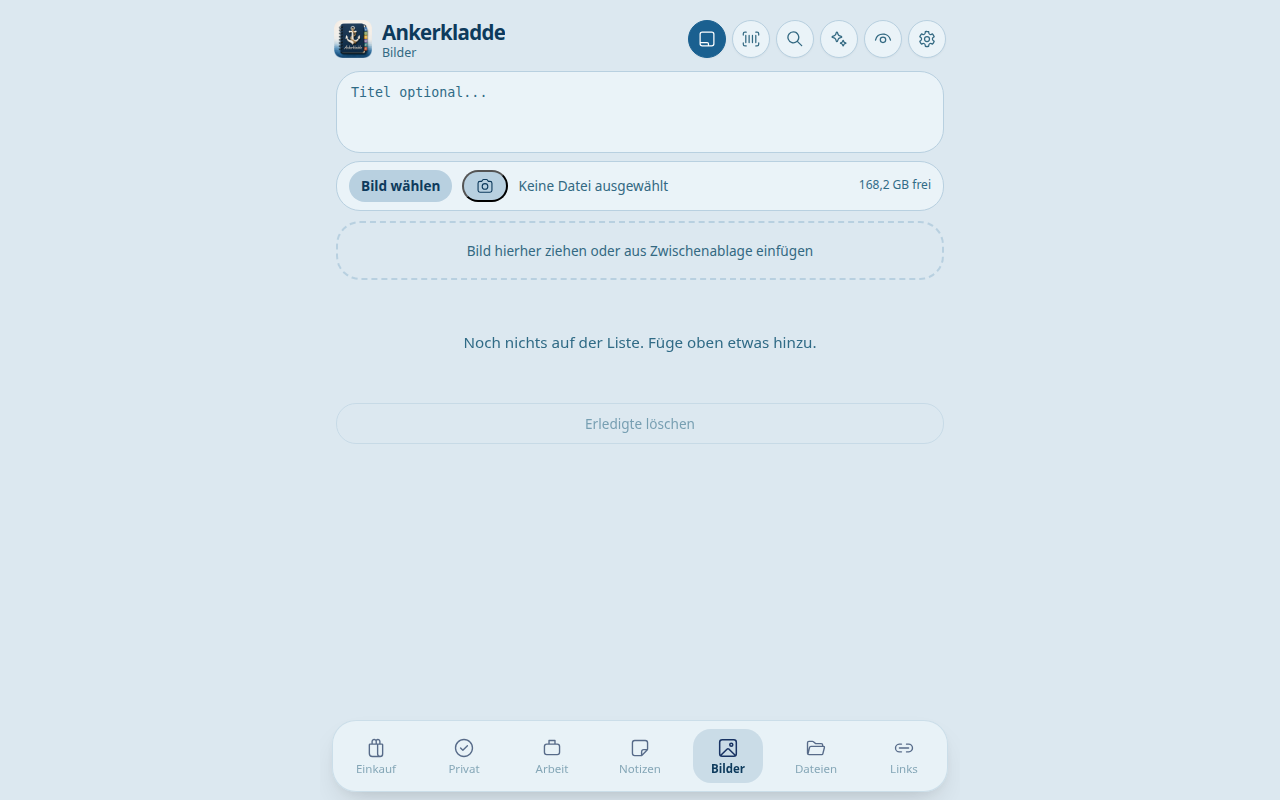
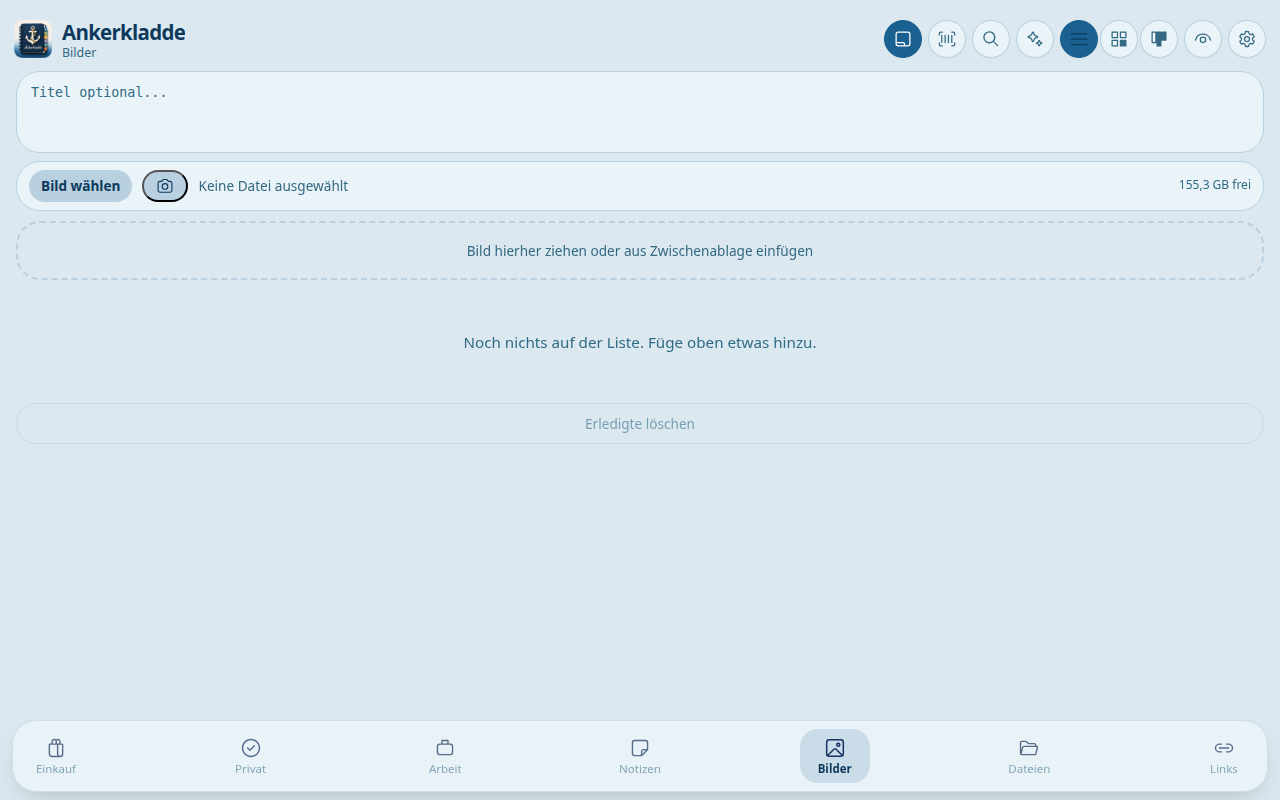
Refactor code structure for improved readability and maintainability

diff --git a/scripts/take-screenshots.js b/scripts/take-screenshots.js
@@ -1,11 +1,18 @@
 #!/usr/bin/env node
 // Playwright-Script: Produktvorstellung Screenshots für Ankerkladde
 const { chromium } = require('playwright');
-const { execSync } = require('child_process');
+const { execFileSync } = require('child_process');
 const path = require('path');
 const fs = require('fs');
 
-const BASE = 'http://127.0.0.1:8099';
+const DEFAULT_DATA_DIR = path.join(__dirname, '..', '.tmp', 'ui-test-data');
+if (!process.env.EINKAUF_DATA_DIR && fs.existsSync(DEFAULT_DATA_DIR)) {
+    process.env.EINKAUF_DATA_DIR = DEFAULT_DATA_DIR;
+}
+
+const BASE = process.env.SCREENSHOT_BASE
+    || process.env.PLAYWRIGHT_BASE_URL
+    || `http://${process.env.PLAYWRIGHT_HOST || '127.0.0.1'}:${process.env.PLAYWRIGHT_PORT || '8099'}`;
 const OUT  = path.join(__dirname, '..', 'screenshots');
 
 const REGULAR_USER = process.env.EINKAUF_REGULAR_USER || 'playwright-user';
@@ -20,8 +27,15 @@ const VIEWPORT_DESKTOP = { width: 1280, height: 800 };
 
 fs.mkdirSync(OUT, { recursive: true });
 
+function runHelper(script, args = []) {
+    execFileSync('php', [path.join(__dirname, script), ...args], {
+        stdio: 'ignore',
+        env: process.env,
+    });
+}
+
 // Tester-Preferences vor jedem Lauf zurücksetzen
-execSync(`php "${path.join(__dirname, 'reset-tester-prefs.php')}"`);
+runHelper('reset-tester-prefs.php');
 console.log('Preferences zurückgesetzt.');
 
 async function login(page, username = REGULAR_USER, password = REGULAR_PASS) {
@@ -51,6 +65,47 @@ async function shot(page, name) {
     await page.waitForTimeout(350);
     await page.screenshot({ path: path.join(OUT, `${name}.png`), fullPage: false });
     console.log(`  ✓ ${name}.png`);
+}
+
+async function setDesktopLayout(page, layout) {
+    const button = page.locator(`.btn-desktop-layout[data-layout="${layout}"]`).first();
+    if (await button.count() === 0) return false;
+    await button.click({ force: true });
+    await page.waitForFunction(
+        value => document.getElementById('app')?.dataset.desktopLayout === value,
+        layout,
+        { timeout: 5000 }
+    ).catch(() => {});
+    await page.waitForTimeout(450);
+    return true;
+}
+
+async function scrollActiveTabIntoView(page) {
+    await page.evaluate(() => {
+        document.querySelector('.section-tab[aria-current="page"]')
+            ?.scrollIntoView({ block: 'nearest', inline: 'center' });
+    }).catch(() => {});
+}
+
+async function setVisibleItemStatuses(page, statusByName) {
+    await page.evaluate(async entries => {
+        const csrf = document.querySelector('meta[name="csrf-token"]')?.content || '';
+        const cards = Array.from(document.querySelectorAll('#list .item-card[data-item-id]'));
+        for (const [name, status] of Object.entries(entries)) {
+            const card = cards.find(node => node.textContent.includes(name));
+            const id = card?.dataset.itemId;
+            if (!id) continue;
+            const body = new URLSearchParams({ id, status });
+            await fetch('/api.php?action=status', {
+                method: 'POST',
+                headers: { 'X-CSRF-Token': csrf },
+                body,
+            });
+        }
+    }, statusByName);
+    await page.reload();
+    await page.waitForSelector('.section-tab', { timeout: 10000 });
+    await waitForItems(page);
 }
 
 // Wartet auf ProseMirror und injiziert Demo-Inhalt falls leer
@@ -103,6 +158,7 @@ async function clickTab(page, nameRegex) {
         try {
             await direct.click({ timeout: 3000 });
             await waitForItems(page);
+            await scrollActiveTabIntoView(page);
             return true;
         } catch (_) { /* Tab nicht klickbar, versuche Mehr-Menü */ }
     }
@@ -116,6 +172,7 @@ async function clickTab(page, nameRegex) {
             if (await item.count() > 0) {
                 await item.click({ timeout: 3000 });
                 await waitForItems(page);
+                await scrollActiveTabIntoView(page);
                 return true;
             }
         } catch (_) { /* ignore */ }
@@ -230,7 +287,7 @@ async function clickTab(page, nameRegex) {
     // ===== DESKTOP =====
     {
         // Preferences vor Desktop-Session zurücksetzen
-        execSync(`php "${path.join(__dirname, 'reset-tester-prefs.php')}"`);
+        runHelper('reset-tester-prefs.php');
 
         const ctx = await browser.newContext({ viewport: VIEWPORT_DESKTOP, deviceScaleFactor: 1 });
         const page = await ctx.newPage();
@@ -240,6 +297,12 @@ async function clickTab(page, nameRegex) {
 
         // 01 Einkaufsliste
         await shot(page, 'desktop-01-einkauf');
+
+        // Einkauf in Kästchenansicht
+        if (await setDesktopLayout(page, 'grid')) {
+            await shot(page, 'desktop-01-einkauf-karten');
+            await setDesktopLayout(page, 'liste');
+        }
 
         // 02 Einkaufen-Modus
         const toShopBtn = page.locator('.btn-mode-toggle[data-nav="einkaufen"]').first();
@@ -262,9 +325,25 @@ async function clickTab(page, nameRegex) {
         await clickTab(page, /privat/i);
         await shot(page, 'desktop-03-privat');
 
+        // 03b Privat als Kanban-Board mit Demo-Statusspalten
+        await setVisibleItemStatuses(page, {
+            'Auto zum TÜV': 'in_progress',
+            'Steuererklärung abgeben': 'waiting',
+        });
+        if (await setDesktopLayout(page, 'kanban')) {
+            await shot(page, 'desktop-03-privat-kanban');
+            await setDesktopLayout(page, 'liste');
+        }
+
         // 04 Notizen
         await clickTab(page, /notiz/i);
         await shot(page, 'desktop-04-notizen');
+
+        // Notizen als Karten nutzen den Desktop-Platz deutlich besser
+        if (await setDesktopLayout(page, 'grid')) {
+            await shot(page, 'desktop-04-notizen-karten');
+            await setDesktopLayout(page, 'liste');
+        }
 
         // 05 Notiz offen
         const firstNote = page.locator('#list li').first();
@@ -286,6 +365,11 @@ async function clickTab(page, nameRegex) {
         // 07 Links
         await clickTab(page, /links/i);
         await shot(page, 'desktop-07-links');
+
+        if (await setDesktopLayout(page, 'grid')) {
+            await shot(page, 'desktop-07-links-karten');
+            await setDesktopLayout(page, 'liste');
+        }
 
         // 08 Suche
         await page.reload();

diff --git a/scripts/take-theme-screenshots.js b/scripts/take-theme-screenshots.js
@@ -1,9 +1,17 @@
 #!/usr/bin/env node
 const { chromium } = require('playwright');
-const { execSync } = require('child_process');
+const { execFileSync } = require('child_process');
 const path = require('path');
+const fs = require('fs');
 
-const BASE = 'http://127.0.0.1:8099';
+const DEFAULT_DATA_DIR = path.join(__dirname, '..', '.tmp', 'ui-test-data');
+if (!process.env.EINKAUF_DATA_DIR && fs.existsSync(DEFAULT_DATA_DIR)) {
+    process.env.EINKAUF_DATA_DIR = DEFAULT_DATA_DIR;
+}
+
+const BASE = process.env.SCREENSHOT_BASE
+    || process.env.PLAYWRIGHT_BASE_URL
+    || `http://${process.env.PLAYWRIGHT_HOST || '127.0.0.1'}:${process.env.PLAYWRIGHT_PORT || '8099'}`;
 const OUT = path.join(__dirname, '..', 'screenshots');
 
 const REGULAR_USER = process.env.EINKAUF_REGULAR_USER || 'playwright-user';
@@ -25,7 +33,10 @@ const themes = [
 ];
 
 function applyTheme(theme) {
-    execSync(`php "${path.join(__dirname, 'set-tester-theme.php')}" ${theme.mode} ${theme.id}`);
+    execFileSync('php', [path.join(__dirname, 'set-tester-theme.php'), theme.mode, theme.id], {
+        stdio: 'ignore',
+        env: process.env,
+    });
 }
 
 (async () => {
@@ -61,6 +72,9 @@ function applyTheme(theme) {
     await browser.close();
 
     // Preferences zurücksetzen
-    execSync(`php "${path.join(__dirname, 'reset-tester-prefs.php')}"`);
+    execFileSync('php', [path.join(__dirname, 'reset-tester-prefs.php')], {
+        stdio: 'ignore',
+        env: process.env,
+    });
     console.log('Preferences zurückgesetzt.');
 })();
